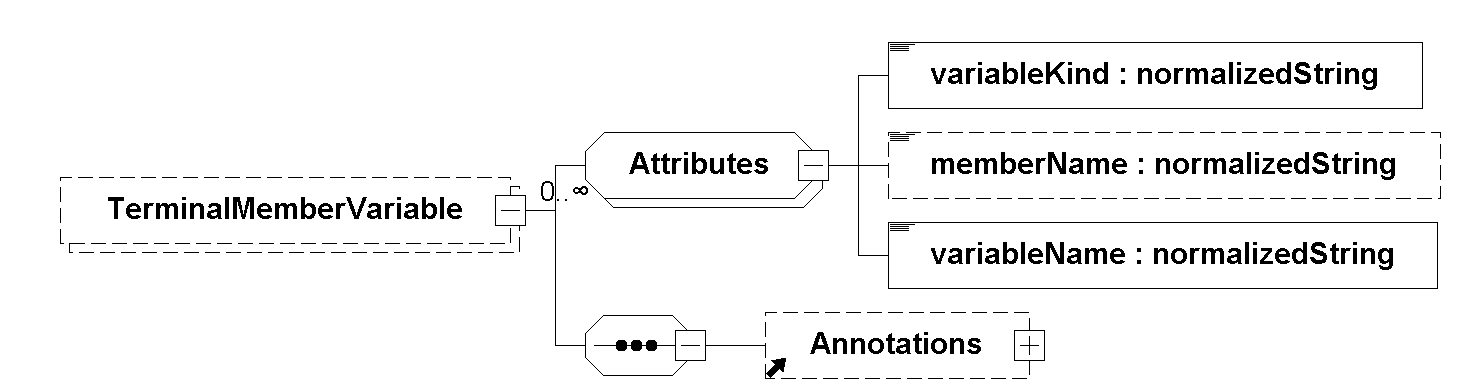
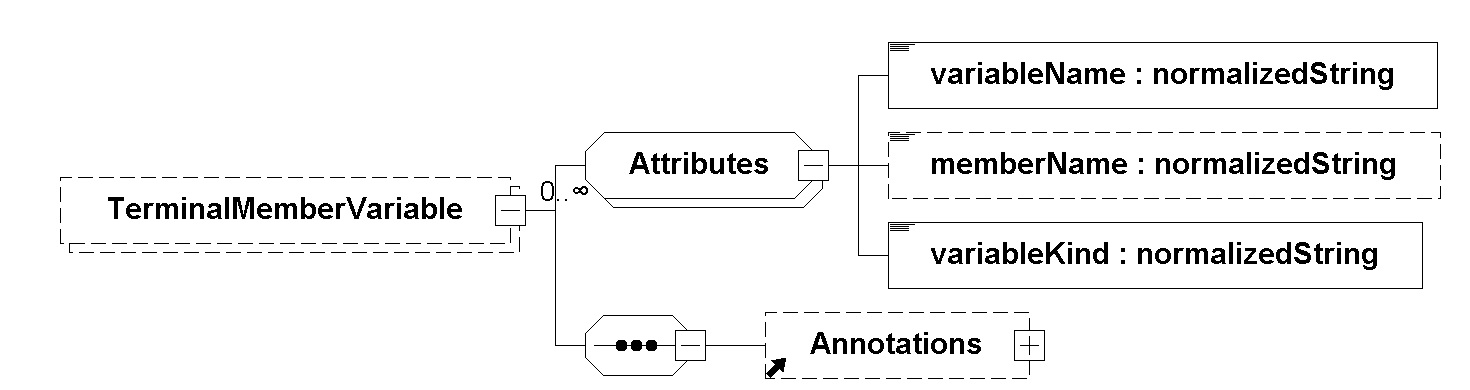
Update generated specification from fmi-standard (c91d4d4)

Changed region(s): [[0.7041, 0.6154, 0.949, 0.7077], [0.7041, 0.1538, 0.949, 0.2462]]

diff --git a/docs/3.0-dev/index.html b/docs/3.0-dev/index.html
@@ -587,7 +587,7 @@ document.addEventListener('keydown', (event) => {
 <div id="header">
 <h1>Functional Mock-Up Interface Specification</h1>
 <div class="details">
-<span id="revnumber">version 08f98b9,</span>
+<span id="revnumber">version c91d4d4,</span>
 <span id="revdate">2021-03-30</span>
 </div>
 <div id="toc" class="toc2">
@@ -6014,7 +6014,7 @@ The attributes and elements have the following meaning:</p>
 </colgroup>
 <thead>
 <tr>
-<th class="tableblock halign-left valign-top">Attribute or Elements</th>
+<th class="tableblock halign-left valign-top">Attribute or Element</th>
 <th class="tableblock halign-left valign-top">Description</th>
 </tr>
 </thead>
@@ -7719,10 +7719,13 @@ The definition of the model structure is then:</p>
 <h4 id="fmiTerminalsAndIcons">2.4.9. Definition of Terminals and Icons</h4>
 <div class="paragraph">
 <p>Terminals define semantic groups of variables to ease connecting compatible signals on the system level.
+This definition adds an additional layer to the interface description of the FMUs.
+It does not change the <a href="#causality"><code>causality</code></a> of the variables (i.e. inputs and outputs), but enables the definition of physical and bus-like  connectors that require special handling on the system level by the importer (e.g. flow variables and bus frames).
 Icons define a graphical representation of an FMU and its terminals.</p>
 </div>
 <div class="paragraph">
-<p>Both can be defined in the separate XML file <code>icons/terminalsAndIcons.xml</code>:</p>
+<p>Both features are optional and can be defined in the separate XML file <code>icons/terminalsAndIcons.xml</code>.<br>
+<em>[The usage of a separate file enables backporting of this feature to previous FMI versions.]</em></p>
 </div>
 <div id="terminals_and_icons_overview" class="imageblock text-center">
 <div class="content">
@@ -7741,18 +7744,24 @@ Icons define a graphical representation of an FMU and its terminals.</p>
 </colgroup>
 <thead>
 <tr>
-<th class="tableblock halign-left valign-top">Element</th>
+<th class="tableblock halign-left valign-top">Attribute or Element</th>
 <th class="tableblock halign-left valign-top">Description</th>
 </tr>
 </thead>
 <tbody>
+<tr>
+<td class="tableblock halign-left valign-top"><p class="tableblock"><code>fmiVersion</code></p></td>
+<td class="tableblock halign-left valign-top"><p class="tableblock">This attribute declares the FMI version defining the XSD of the <code>icons/terminalsAndIcons.xml</code> file.
+Starting with FMI 3.0, this <code>fmiVersion</code> attribute must match the <code>fmiVersion</code> attribute of element <a href="#fmiModelDescription">Section 2.4.1</a> of the <a href="#modelDescription.xml"><code>modelDescription.xml</code></a> file.
+If used in previous FMI versions, this attribute points to the FMI version defining this <code>icons/terminalsAndIcons.xml</code> file (e.g. XSD, file location).</p></td>
+</tr>
 <tr>
 <td class="tableblock halign-left valign-top"><p class="tableblock"><code>&lt;GraphicalRepresentation&gt;</code></p></td>
 <td class="tableblock halign-left valign-top"><p class="tableblock">If present, contains information for importers of FMUs to draw graphical representations of the FMU in a system view.</p></td>
 </tr>
 <tr>
 <td class="tableblock halign-left valign-top"><p class="tableblock"><code>&lt;Terminals&gt;</code></p></td>
-<td class="tableblock halign-left valign-top"><p class="tableblock">If present, this allows combining input and output variables into logical groups to ease connections on a system level.</p></td>
+<td class="tableblock halign-left valign-top"><p class="tableblock">If present, this allows combining input and output variables into logical groups to ease connections on a system level and add semantic information required for system-level connections.</p></td>
 </tr>
 </tbody>
 </table>
@@ -7761,7 +7770,7 @@ Icons define a graphical representation of an FMU and its terminals.</p>
 <div class="sect5">
 <h6 id="_overview_2">2.4.9.1.1. Overview</h6>
 <div class="paragraph">
-<p>The graphical representation of the FMU and terminals are needed in order to more easily comprehend the meaning of connected FMUs and to help an importing tool to display the terminals and the FMU icon in the way the exporter intended.</p>
+<p>The graphical representation of the FMU and terminals are needed to more easily comprehend the meaning of connected FMUs and to help importers to display the terminals and the FMU icon in the way the exporter intended.</p>
 </div>
 <div class="paragraph">
 <p>The graphical representation is fully optional.
@@ -7770,15 +7779,15 @@ The graphical representation of terminals is separate from the terminal definiti
 <div class="paragraph">
 <p>There are two optional elements in the <code>&lt;GraphicalRepresentation&gt;</code>:</p>
 </div>
-<div class="olist arabic">
-<ol class="arabic">
+<div class="ulist">
+<ul>
 <li>
-<p>The <code>&lt;CoordinateSystem&gt;</code> defines the extent of the whole icon (graphical items may exceed that rectangle).</p>
+<p>The element <code>&lt;CoordinateSystem&gt;</code> defines the extent of the whole icon, graphical items may exceed that rectangle.</p>
 </li>
 <li>
-<p>The <code>&lt;Icon&gt;</code> defines an image source for the FMU.</p>
+<p>The element <code>&lt;Icon&gt;</code> defines the image position.</p>
 </li>
-</ol>
+</ul>
 </div>
 <div id="figure-schema-GraphicalRepresentation" class="imageblock text-center">
 <div class="content">
@@ -7796,7 +7805,7 @@ The graphical representation of terminals is separate from the terminal definiti
 <div class="title">Figure 33. CoordinateSytem element.</div>
 </div>
 <div class="paragraph">
-<p>The <code>&lt;CoordinateSystem&gt;</code> element and its defined extent is used as reference for other graphical items.
+<p>The <code>&lt;CoordinateSystem&gt;</code> element and its extent is used as reference for other graphical items.
 It also provides a scaling factor to millimeter.</p>
 </div>
 <div class="paragraph">
@@ -7804,18 +7813,18 @@ It also provides a scaling factor to millimeter.</p>
 The x-axis is directed to the right, the y-axis is directed upwards.</p>
 </div>
 <div class="paragraph">
-<p><em>[The exporting tool should define how the coordinate system unit relates to mm display or print out size.</em>
+<p><em>[The exporting tool should define how the coordinate system unit relates to mm display or printout size.</em>
 <em>However, an importing tool might choose to use the factor from the default coordinate system extent to the actual coordinate system extent to calculate a scaling factor, to match the default icon size in the importing tool.</em></p>
 </div>
 <div class="paragraph">
-<p><em>The area defined by the coordinate system is suggested to be used as "clickable icon size" in other tools.</em>
-<em>A <code>&lt;Terminal&gt;</code> might be placed outside of this area, so the visible bounding box has to be determined by the importing tool.]</em></p>
+<p><em>The area defined by the coordinate system is suggested to be used as "clickable icon size" in importers.</em>
+<em>A <code>&lt;Terminal&gt;</code> might be placed outside of this area, therefore the visible bounding box has to be determined by the importing tool.]</em></p>
 </div>
 <div class="paragraph">
 <p>The coordinate system default is <code>x1=-100, y1=-100, x2=100, y2=100</code>.
 This extent is used if the <code>&lt;CoordinateSystem&gt;</code> element is missing.
-The default <code>suggestedScalingFactorTo_mm</code> is 0.1.
-So the default coordinate system display size should be 20 mm width and 20 mm height.</p>
+The default <code>suggestedScalingFactorTo_mm</code> is <code>0.1</code>.
+So the default coordinate system display size should be <code>20 mm</code> width and <code>20 mm</code> height.</p>
 </div>
 <div class="paragraph">
 <p>The FMU icon and all graphical representations provide the position and extent with the attributes <code>x1</code>, <code>y1</code>, <code>x2</code>, <code>y2</code>.
@@ -7835,9 +7844,8 @@ Flipping of the FMU icon or a terminal can be realized by setting its attributes
 <p>The extent and position of the FMU icon are defined in the <code>&lt;Icon&gt;</code> element.
 The optional image file of the FMU icon is placed at the path <code>icons/icon.png</code> in the ZIP archive of the FMU.
 The terminals should not be visible in the image.
-Optionally an SVG file can be provided if also the PNG file is present.
-This enables high quality rendering and printing in importing tools.
-This SVG file has to be placed at the path <code>icons/icon.svg</code> in the ZIP archive.</p>
+Optionally an SVG file with path <code>icons/icon.svg</code> can be provided if also the PNG file is present.
+This enables high quality rendering and printing in importing tools.</p>
 </div>
 <div class="paragraph">
 <p>The point (<code>x1</code>, <code>y1</code>) maps to the left lower corner of the PNG image or SVG viewport.
@@ -7874,37 +7882,33 @@ The first element in the <code>&lt;TerminalGraphicalRepresentation&gt;</code> is
 <p>Terminals are fully optional and can be ignored by any importing tool.</p>
 </div>
 <div class="paragraph">
-<p>Definition <code>&lt;Terminal&gt;</code>: A terminal is&#8230;&#8203;</p>
+<p>A terminal is:</p>
 </div>
 <div class="ulist">
 <ul>
 <li>
-<p>a structured interface for connections to other models</p>
+<p>a structured interface for connections to other models,</p>
 </li>
 <li>
-<p>intended to be used for signal flow between models, parameter propagation, and compatibility checks of the model configuration</p>
+<p>intended to be used for signal flow between models, parameter propagation, and compatibility checks of the model configuration, and</p>
 </li>
 <li>
-<p>a sequence of references to variables with connection meta data</p>
+<p>a sequence of references to variables with connection meta data.</p>
 </li>
 </ul>
 </div>
 <div class="paragraph">
 <p>Predefined rules for variable matching in a connection are given in <a href="#table-predefined-matching-rules">Table 27</a>.
-Predefined variable kinds are used to describe how the member variables have to be handled.
+Predefined variable kinds are used to describe how the terminal member variables have to be handled.
 Domain specific connection rules, terminals and their member variables can be provided by other standards.</p>
 </div>
 <div class="paragraph">
-<p><em>[Co-simulation errors are not addressed by the terminals.</em>
-<em>The co-simulation algorithm has to be chosen and implemented by the importing tool.</em>
-<em>Features that might be required for specific co-simulation algorithms had to be implemented by the FMU exporting tool.</em></p>
+<p><em>[Algebraic loops in systems of connected FMUs are not addressed or resolved by the terminals.</em>
+<em>The FMU standard does not require that the <a href="#causality"><code>causality</code></a> of the terminal member variables in connected terminals match.</em>
+<em>This must be handled by the importer.</em></p>
 </div>
 <div class="paragraph">
-<p><em>Algebraic loops in systems of connected Model Exchange FMUs are not addressed or resolved by the terminals.</em>
-<em>It is not required that the <a href="#causality"><code>causality</code></a> of the terminal member variables in connected terminals match.</em></p>
-</div>
-<div class="paragraph">
-<p><em>The SSP standard refers to a <code>connectorKind</code>.</em>
+<p><em>The <a href="https://ssp-standard.org/">System Structure &amp; Parameterization Standard (SSP)</a> refers to a <code>connectorKind</code>.</em>
 <em>This <code>connectorKind</code> is not related to the <code>terminalKind</code> or <code>variableKind</code> described in <a href="#section-terminals">Section 2.4.9.2.2</a> and <a href="#section-terminalvars">Section 2.4.9.2.3</a>.]</em></p>
 </div>
 </div>
@@ -7920,23 +7924,15 @@ Domain specific connection rules, terminals and their member variables can be pr
 <div class="title">Figure 35. Terminals element.</div>
 </div>
 <div class="paragraph">
-<p>All instances of <code>&lt;Terminal&gt;</code> have the type <code>fmi3Terminal</code> and are listed in the <code>&lt;Terminals&gt;</code> sequence.</p>
-</div>
-<div class="paragraph">
 <p>The normalized string attribute <code>name</code> of the <code>&lt;Terminal&gt;</code> element is the instance name of the terminal.
 The terminal name must be unique on each level.</p>
 </div>
 <div class="paragraph">
-<p>The normalized string attribute <code>matchingRule</code> describes the rules for variable matching in a connection.
-As detailed in <a href="#table-predefined-matching-rules">Table 27</a>, there are three predefined matching rules: plug, bus, and sequence.
+<p>The normalized string attribute <code>matchingRule</code> describes the rules for variable matching in a connection of terminals.
+As detailed in <a href="#table-predefined-matching-rules">Table 27</a>, there are three predefined matching rules: <code>plug</code>, <code>bus</code>, and <code>sequence</code>.
 Other standards may define new matching rules.
 In order to avoid ambiguities and conflicts, rule names must follow the reverse domain notation of a domain that is controlled by the entity defining the semantics and content of the additional entries.
-The rule names beginning with <code>org.modelica</code> and <code>org.fmi-standard</code> are explicitly reserved for use by MAP FMI-defined layered standards.</p>
-</div>
-<div class="paragraph">
-<p>There is a sequence of terminal member variables, terminal stream member variables, nested terminals, and an optional <code>&lt;TerminalGraphicalRepresentation&gt;</code> element in the <code>&lt;Terminal&gt;</code> element.
-The member variables are the exchanged variables.
-The type of the nested terminals is <code>fmi3Terminal</code>, and they can be used to implement structured terminals.</p>
+The rule names beginning with <code>org.modelica</code> and <code>org.fmi-standard</code> are explicitly reserved for use by Modelica Association Project FMI-defined layered standards.</p>
 </div>
 <table id="table-predefined-matching-rules" class="tableblock frame-all grid-all stretch">
 <caption class="title">Table 27. Predefined matching rules.</caption>
@@ -7978,7 +7974,7 @@ Other standards may define terminal kinds.
 It is intended that the <code>terminalKind</code> is used to define domain specific member variable sequences, member names and order, or high level restrictions for connections.</p>
 </div>
 <div class="paragraph">
-<p><em>[Other terminal kinds should refer to the predefined <code>matchingRule</code>.</em>
+<p><em>[Externally defined terminal kinds should refer to a predefined <code>matchingRule</code>, if possible.</em>
 <em>Vendor specific terminal kinds should start with <code>_vendorName</code> or <code>_toolName</code> to avoid namespace clashes.</em></p>
 </div>
 <div class="paragraph">
@@ -8003,15 +7999,11 @@ It is intended that the <code>terminalKind</code> is used to define domain speci
 <div class="title">Figure 36. TerminalMemberVariable element.</div>
 </div>
 <div class="paragraph">
-<p>The normalized string <code>variableName</code> is used to identify the terminal member variable in the element <code>&lt;ModelVariables&gt;</code>.
-The information about minimum, maximum, and nominal values is available in there.</p>
+<p>The normalized string <code>variableName</code> identifies a variable in <code>&lt;ModelVariables&gt;</code> which is actually connected and for which <a href="#get-and-set-variable-values"><code>fmi3Get{VariableType}</code></a> and <a href="#get-and-set-variable-values"><code>fmi3Set{VariableType}</code></a> is called.</p>
 </div>
 <div class="paragraph">
-<p>One variable can be part of several terminals.</p>
-</div>
-<div class="paragraph">
-<p>If the <code>matchingRule</code> <code>plug</code> and <code>bus</code> are used, then the normalized string <code>memberName</code> is used for member variable matching.
-So the <code>memberName</code> attribute is required for <code>plug</code> and <code>bus</code> and it has to be unique for a terminal.
+<p>If the <code>matchingRule</code> <code>plug</code> and <code>bus</code> are used, then <code>memberName</code> is used for variable matching.
+Therefore, the <code>memberName</code> attribute is required for <code>plug</code> and <code>bus</code> and must be unique per terminal.
 The <code>memberName</code> is not required for <code>matchingRule</code> <code>sequence</code>.</p>
 </div>
 <div class="paragraph">
